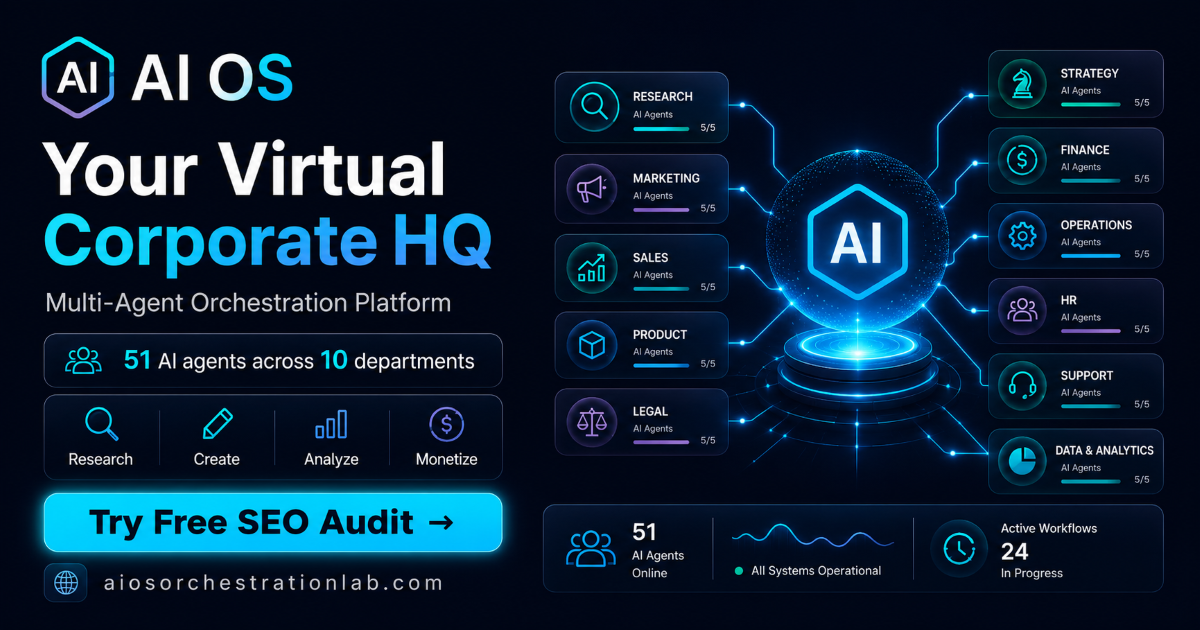
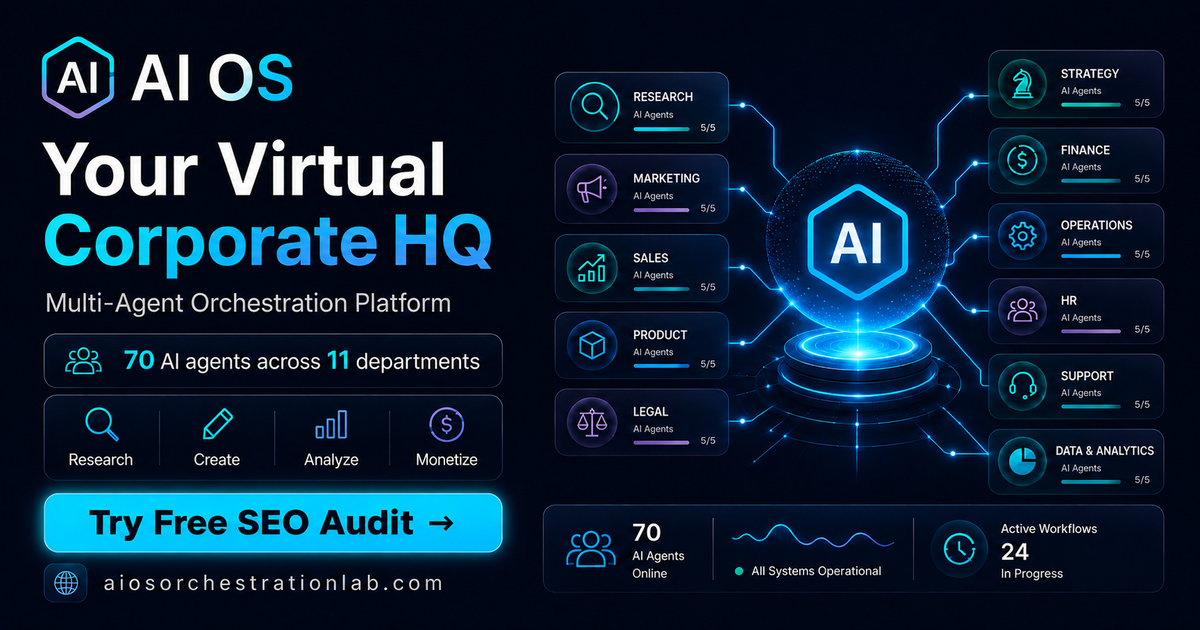
assets(og): new share card — "51 agents / 10 depts" -> "70 / 11", resized to spec
dashboard/assets/og-share.png is the og:image AND twitter:image for all 25 public
pages, and it still read "51 AI agents across 10 departments" — four generations
stale (51 -> 55 -> 65 -> 68 -> 70). It is the single most-shared asset on the site
and nothing in the text sweep could see it, because it is pixels.

The operator supplied the new card at 1731x909. Resized to the Open Graph standard
1200x630 with ffmpeg (`scale=1200:630:flags=lanczos`, PNG compression_level 9).
Aspect ratio was 1.9043 against the target 1.9048, so it is a straight downscale
with NO crop — nothing is clipped. 827919 bytes, smaller than the 1014097 it
replaces. Verified by looking at the output, not just the exit code.

All 25 references bumped to `og-share.png?v=2`. Facebook, LinkedIn, Slack and
Discord cache the image they scraped against the URL, so replacing the bytes alone
leaves every existing unfurl showing "51 agents" indefinitely. The regex is
`og-share\.png(?!\?)` so an already-versioned url can never be double-versioned.

Verified: all 122 JSON-LD blocks still parse (0 invalid); the 25 references are
uniformly `?v=2` with no bare or doubled forms; 89/89 suites and copy-drift green.

NOTE for after deploy: a Cloudflare purge does NOT clear the social platforms'
copies. Re-scrape via Facebook Sharing Debugger and LinkedIn Post Inspector.

diff --git a/dashboard/blog/what-is-answer-engine-optimization.html b/dashboard/blog/what-is-answer-engine-optimization.html
@@ -10,11 +10,11 @@
   <meta property="og:description" content="AEO is about being cited by ChatGPT, Perplexity, and Google AI Overviews. The 8-dimension readiness score, multi-model consensus, and AI-crawler allowlisting — readiness, never guaranteed citations.">
   <meta property="og:type" content="article">
   <meta property="og:url" content="https://aiosorchestrationlab.com/blog/what-is-answer-engine-optimization">
-  <meta property="og:image" content="https://aiosorchestrationlab.com/assets/og-share.png">
+  <meta property="og:image" content="https://aiosorchestrationlab.com/assets/og-share.png?v=2">
   <meta name="twitter:card" content="summary_large_image">
   <meta name="twitter:title" content="What Is Answer Engine Optimization (AEO)? A 2026 Explainer">
   <meta name="twitter:description" content="Getting cited by ChatGPT, Perplexity, and Google AI Overviews — the 8-dimension readiness score, multi-model consensus, and AI-crawler allowlisting.">
-  <meta name="twitter:image" content="https://aiosorchestrationlab.com/assets/og-share.png">
+  <meta name="twitter:image" content="https://aiosorchestrationlab.com/assets/og-share.png?v=2">
   <script type="application/ld+json">
   {
     "@context": "https://schema.org",

diff --git a/dashboard/blog/managed-websites-done-for-you.html b/dashboard/blog/managed-websites-done-for-you.html
@@ -10,11 +10,11 @@
   <meta property="og:description" content="We build, host, and maintain your site on our VPS — custom domain, TLS, and a scoped dashboard with Web Studio and your own SEO/AEO audits. Agent-buyable.">
   <meta property="og:type" content="article">
   <meta property="og:url" content="https://aiosorchestrationlab.com/blog/managed-websites-done-for-you">
-  <meta property="og:image" content="https://aiosorchestrationlab.com/assets/og-share.png">
+  <meta property="og:image" content="https://aiosorchestrationlab.com/assets/og-share.png?v=2">
   <meta name="twitter:card" content="summary_large_image">
   <meta name="twitter:title" content="Managed Websites, Done For You — $997 Setup + $250/mo">
   <meta name="twitter:description" content="We build, host, and maintain your site on our VPS — custom domain, TLS, and a scoped dashboard. Agent-buyable via agentic commerce.">
-  <meta name="twitter:image" content="https://aiosorchestrationlab.com/assets/og-share.png">
+  <meta name="twitter:image" content="https://aiosorchestrationlab.com/assets/og-share.png?v=2">
   <script type="application/ld+json">
   {
     "@context": "https://schema.org",

diff --git a/dashboard/trust.html b/dashboard/trust.html
@@ -10,11 +10,11 @@
   <meta property="og:description" content="Self-hosted by design: your data stays on infrastructure you control. Default-deny RBAC, a human-in-the-loop approval gate, SSRF/injection defenses, content provenance — and an honest compliance posture.">
   <meta property="og:type" content="website">
   <meta property="og:url" content="https://aiosorchestrationlab.com/trust">
-  <meta property="og:image" content="https://aiosorchestrationlab.com/assets/og-share.png">
+  <meta property="og:image" content="https://aiosorchestrationlab.com/assets/og-share.png?v=2">
   <meta name="twitter:card" content="summary_large_image">
   <meta name="twitter:title" content="Trust & Security — AI OS">
   <meta name="twitter:description" content="Self-hosted, you-own-your-data AI platform. Real technical controls, honestly described.">
-  <meta name="twitter:image" content="https://aiosorchestrationlab.com/assets/og-share.png">
+  <meta name="twitter:image" content="https://aiosorchestrationlab.com/assets/og-share.png?v=2">
   <script type="application/ld+json">
   {
     "@context": "https://schema.org",

diff --git a/dashboard/about.html b/dashboard/about.html
@@ -10,11 +10,11 @@
   <meta property="og:description" content="70 agents, 11 departments, 6 AI models across 4 routing tiers. SEO &amp; AEO Agency, AI Web Studio, Creative Studio, Legal department. Open-source core, self-hosted.">
   <meta property="og:type" content="website">
   <meta property="og:url" content="https://aiosorchestrationlab.com/about">
-  <meta property="og:image" content="https://aiosorchestrationlab.com/assets/og-share.png">
+  <meta property="og:image" content="https://aiosorchestrationlab.com/assets/og-share.png?v=2">
   <meta name="twitter:card" content="summary_large_image">
   <meta name="twitter:title" content="About AI OS — Virtual Corporate HQ">
   <meta name="twitter:description" content="A complete AI-powered company with 70 agents across 11 departments. Open-source, self-hosted.">
-  <meta name="twitter:image" content="https://aiosorchestrationlab.com/assets/og-share.png">
+  <meta name="twitter:image" content="https://aiosorchestrationlab.com/assets/og-share.png?v=2">
   <script type="application/ld+json">
   {
     "@context": "https://schema.org",

diff --git a/dashboard/index.html b/dashboard/index.html
@@ -15,7 +15,7 @@
   <meta property="og:url" content="https://aiosorchestrationlab.com/">
   <meta property="og:site_name" content="AI OS">
   <meta property="og:locale" content="en_US">
-  <meta property="og:image" content="https://aiosorchestrationlab.com/assets/og-share.png">
+  <meta property="og:image" content="https://aiosorchestrationlab.com/assets/og-share.png?v=2">
   <meta property="og:image:width" content="1200">
   <meta property="og:image:height" content="630">
 
@@ -23,7 +23,7 @@
   <meta name="twitter:card" content="summary_large_image">
   <meta name="twitter:title" content="AI OS — Virtual Corporate HQ with 70 AI Agents">
   <meta name="twitter:description" content="70 AI agents, 11 departments, 6 AI models across 4 routing tiers. SEO + AEO Agency, AI Web Studio. Open-source, self-hosted.">
-  <meta name="twitter:image" content="https://aiosorchestrationlab.com/assets/og-share.png">
+  <meta name="twitter:image" content="https://aiosorchestrationlab.com/assets/og-share.png?v=2">
 
   <!-- AEO: Structured Data -->
   <script type="application/ld+json">

diff --git a/dashboard/blog/index.html b/dashboard/blog/index.html
@@ -10,11 +10,11 @@
   <meta property="og:description" content="Insights on AI agents, multi-model orchestration, SEO automation, and virtual corporate HQ.">
   <meta property="og:type" content="website">
   <meta property="og:url" content="https://aiosorchestrationlab.com/blog">
-  <meta property="og:image" content="https://aiosorchestrationlab.com/assets/og-share.png">
+  <meta property="og:image" content="https://aiosorchestrationlab.com/assets/og-share.png?v=2">
   <meta name="twitter:card" content="summary_large_image">
   <meta name="twitter:title" content="AI OS Blog — AI Agents, Automation & Open-Source AI Platform">
   <meta name="twitter:description" content="Insights on AI agents, multi-model orchestration, SEO automation, and building virtual corporate headquarters.">
-  <meta name="twitter:image" content="https://aiosorchestrationlab.com/assets/og-share.png">
+  <meta name="twitter:image" content="https://aiosorchestrationlab.com/assets/og-share.png?v=2">
   <script type="application/ld+json">
   {
     "@context": "https://schema.org",

diff --git a/dashboard/compare/index.html b/dashboard/compare/index.html
@@ -10,11 +10,11 @@
   <meta property="og:description" content="Side-by-side comparisons of AI OS against Relevance AI, CrewAI, Lindy AI, Taskade, and LangChain.">
   <meta property="og:type" content="website">
   <meta property="og:url" content="https://aiosorchestrationlab.com/compare">
-  <meta property="og:image" content="https://aiosorchestrationlab.com/assets/og-share.png">
+  <meta property="og:image" content="https://aiosorchestrationlab.com/assets/og-share.png?v=2">
   <meta name="twitter:card" content="summary_large_image">
   <meta name="twitter:title" content="AI OS vs Competitors — Multi-Agent Platform Comparisons">
   <meta name="twitter:description" content="Side-by-side comparisons of AI OS against Relevance AI, CrewAI, Lindy AI, Taskade, and LangChain.">
-  <meta name="twitter:image" content="https://aiosorchestrationlab.com/assets/og-share.png">
+  <meta name="twitter:image" content="https://aiosorchestrationlab.com/assets/og-share.png?v=2">
   <script type="application/ld+json">
   {
     "@context": "https://schema.org",

diff --git a/dashboard/free-audit.html b/dashboard/free-audit.html
@@ -10,9 +10,9 @@
   <meta property="og:description" content="Enter your domain, get a composite score and action plan. No login, no credit card. Powered by AI OS.">
   <meta property="og:type" content="website">
   <meta property="og:url" content="https://aiosorchestrationlab.com/free-audit">
-  <meta property="og:image" content="https://aiosorchestrationlab.com/assets/og-share.png">
+  <meta property="og:image" content="https://aiosorchestrationlab.com/assets/og-share.png?v=2">
   <meta name="twitter:card" content="summary_large_image">
-  <meta name="twitter:image" content="https://aiosorchestrationlab.com/assets/og-share.png">
+  <meta name="twitter:image" content="https://aiosorchestrationlab.com/assets/og-share.png?v=2">
   <script type="application/ld+json">
   {
     "@context": "https://schema.org",

diff --git a/dashboard/blog/mythos-defense-security-suite.html b/dashboard/blog/mythos-defense-security-suite.html
@@ -10,7 +10,7 @@
   <meta property="og:description" content="Three layers of AI-driven, report-only security: platform self-assessment, a publish-time site security gate, and security as a managed-client deliverable.">
   <meta property="og:type" content="article">
   <meta property="og:url" content="https://aiosorchestrationlab.com/blog/mythos-defense-security-suite">
-  <meta property="og:image" content="https://aiosorchestrationlab.com/assets/og-share.png">
+  <meta property="og:image" content="https://aiosorchestrationlab.com/assets/og-share.png?v=2">
   <meta name="twitter:card" content="summary_large_image">
   <script type="application/ld+json">
   {

diff --git a/dashboard/blog/ai-agent-pricing-comparison-2026.html b/dashboard/blog/ai-agent-pricing-comparison-2026.html
@@ -10,7 +10,7 @@
   <meta property="og:description" content="Side-by-side pricing breakdown: 70 agents, 6 AI models across 4 routing tiers, free SEO audit. See how AI OS stacks up against the competition.">
   <meta property="og:type" content="article">
   <meta property="og:url" content="https://aiosorchestrationlab.com/blog/ai-agent-pricing-comparison-2026">
-  <meta property="og:image" content="https://aiosorchestrationlab.com/assets/og-share.png">
+  <meta property="og:image" content="https://aiosorchestrationlab.com/assets/og-share.png?v=2">
   <meta name="twitter:card" content="summary_large_image">
   <script type="application/ld+json">
   {

diff --git a/dashboard/blog/what-is-ai-operating-system.html b/dashboard/blog/what-is-ai-operating-system.html
@@ -10,7 +10,7 @@
   <meta property="og:description" content="AI operating systems orchestrate multiple models and agents. 70 agents, 6 models across 4 routing tiers, one platform.">
   <meta property="og:type" content="article">
   <meta property="og:url" content="https://aiosorchestrationlab.com/blog/what-is-ai-operating-system">
-  <meta property="og:image" content="https://aiosorchestrationlab.com/assets/og-share.png">
+  <meta property="og:image" content="https://aiosorchestrationlab.com/assets/og-share.png?v=2">
   <meta name="twitter:card" content="summary_large_image">
   <script type="application/ld+json">
   {

diff --git a/dashboard/blog/how-to-automate-seo-with-ai.html b/dashboard/blog/how-to-automate-seo-with-ai.html
@@ -10,7 +10,7 @@
   <meta property="og:description" content="5 parallel AI sub-agents replace the traditional $5K-$10K/mo SEO agency model. Here is exactly how it works.">
   <meta property="og:type" content="article">
   <meta property="og:url" content="https://aiosorchestrationlab.com/blog/how-to-automate-seo-with-ai">
-  <meta property="og:image" content="https://aiosorchestrationlab.com/assets/og-share.png">
+  <meta property="og:image" content="https://aiosorchestrationlab.com/assets/og-share.png?v=2">
   <meta name="twitter:card" content="summary_large_image">
   <script type="application/ld+json">
   {
